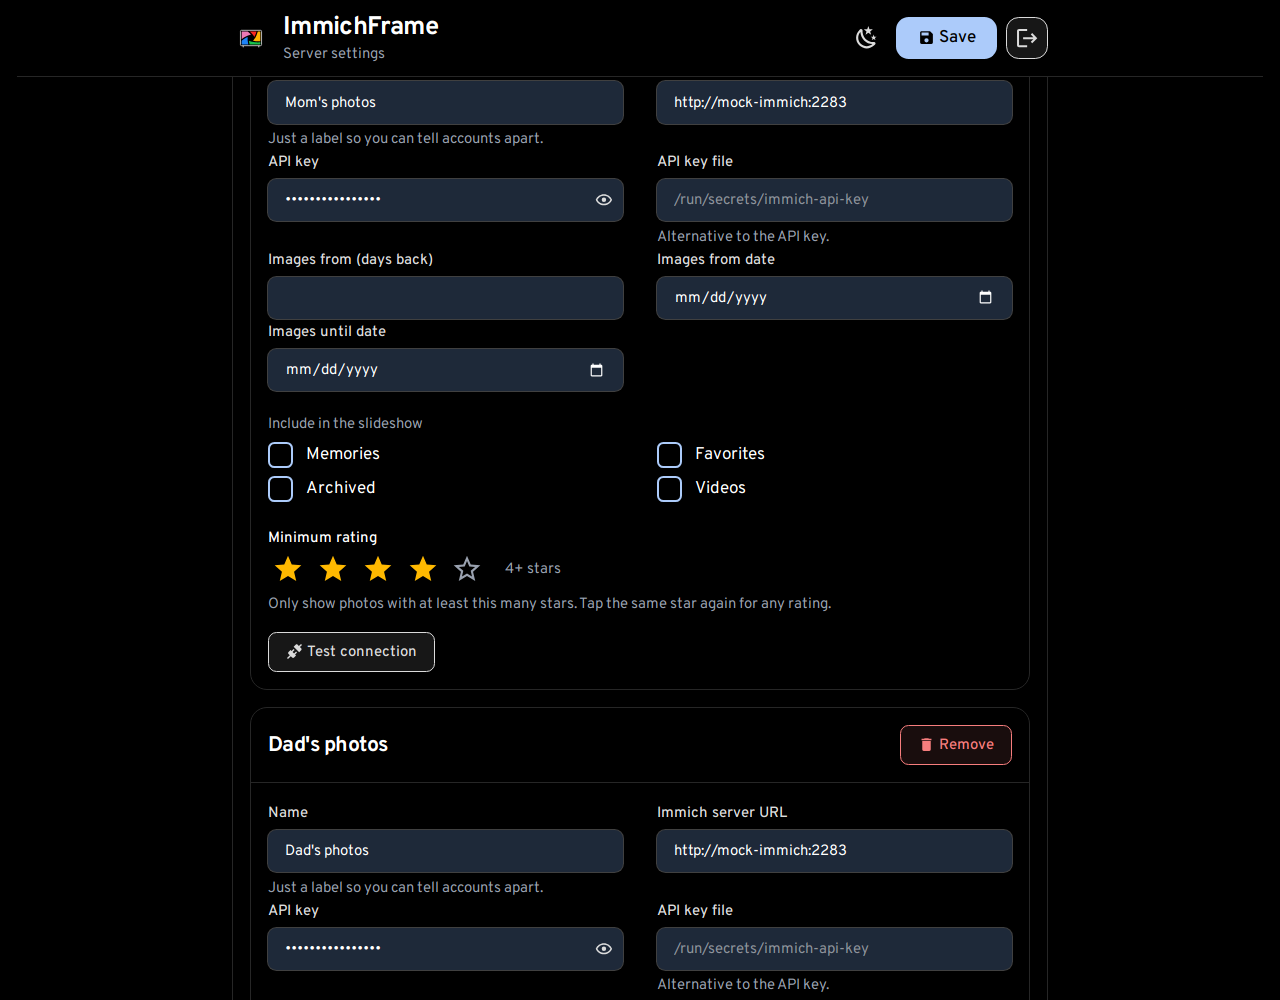
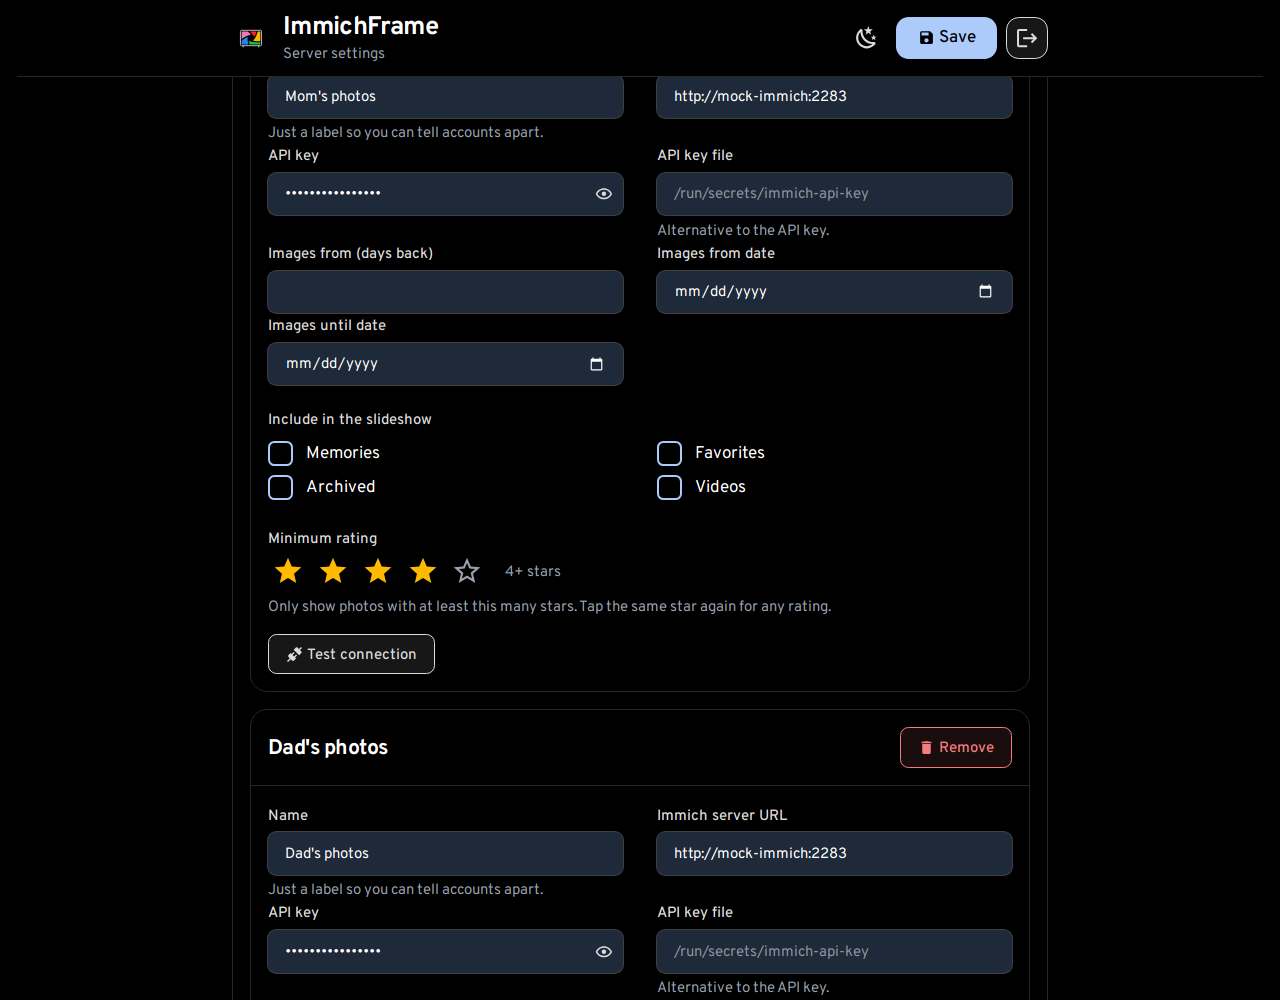
Admin: match the heading style of 'Include in the slideshow' and 'Minimum rating' to other field labels
Both now use the library Label with the same size and colour as Name/API key etc.
Checkbox labels are unchanged. Screenshots regenerated.

diff --git a/immichFrame.Web/src/lib/components/admin/settings-grid.svelte b/immichFrame.Web/src/lib/components/admin/settings-grid.svelte
@@ -1,6 +1,6 @@
 <script lang="ts">
 	import { checkboxesLast, type FieldDef } from './admin-fields';
-	import { Text } from '@immich/ui';
+	import { Label } from '@immich/ui';
 	import SettingField from './setting-field.svelte';
 
 	interface Props {
@@ -21,7 +21,7 @@
 		{#if field.type === 'checkbox' && i > 0 && ordered[i - 1].type !== 'checkbox'}
 			{#if checkboxLabel}
 				<div class="mt-5 mb-1 sm:col-span-2">
-					<Text size="small" color="muted">{checkboxLabel}</Text>
+					<Label label={checkboxLabel} size="small" class="text-dark" />
 				</div>
 			{:else}
 				<div class="h-5 sm:col-span-2"></div>

diff --git a/immichFrame.Web/src/lib/components/admin/setting-field.svelte b/immichFrame.Web/src/lib/components/admin/setting-field.svelte
@@ -7,6 +7,7 @@
 		HelperText,
 		Icon,
 		Input,
+		Label,
 		NumberInput,
 		PasswordInput,
 		Select,
@@ -89,7 +90,7 @@
 			/>
 		{:else if field.type === 'rating'}
 			<!-- Field only draws its label for real inputs, so the label is drawn here -->
-			<Text size="small" class="font-medium">{field.label}</Text>
+			<Label label={field.label} size="small" class="text-dark" />
 			<div class="flex items-center gap-1" role="radiogroup" aria-label={field.label}>
 				{#each [1, 2, 3, 4, 5] as stars (stars)}
 					<button
